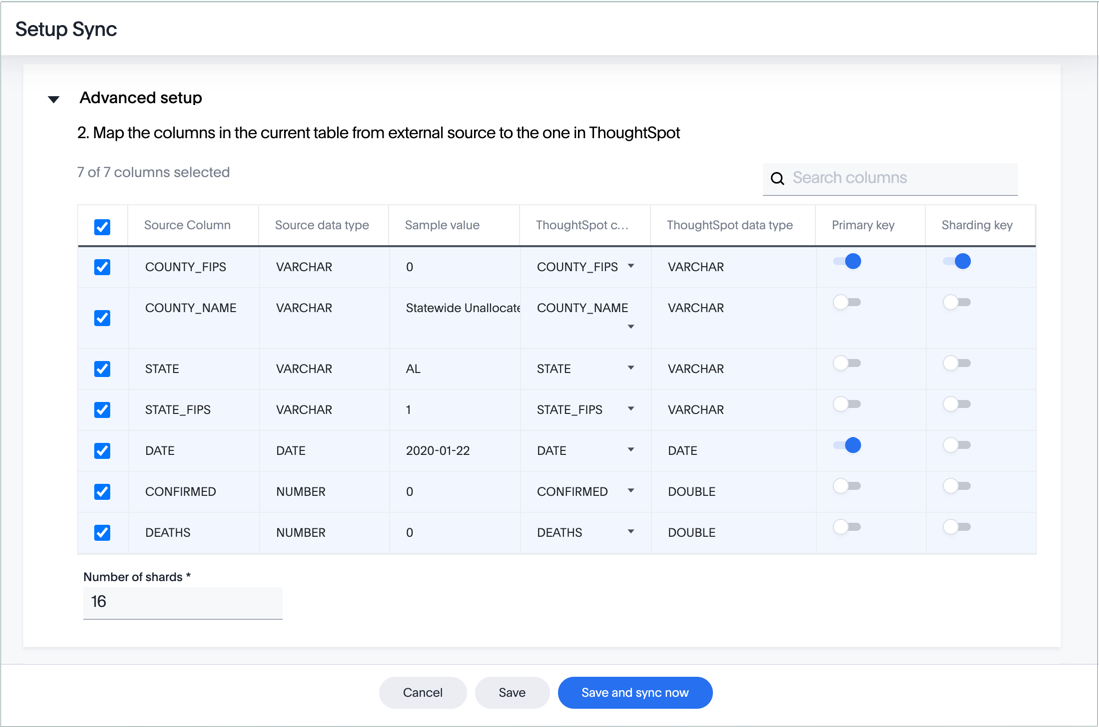
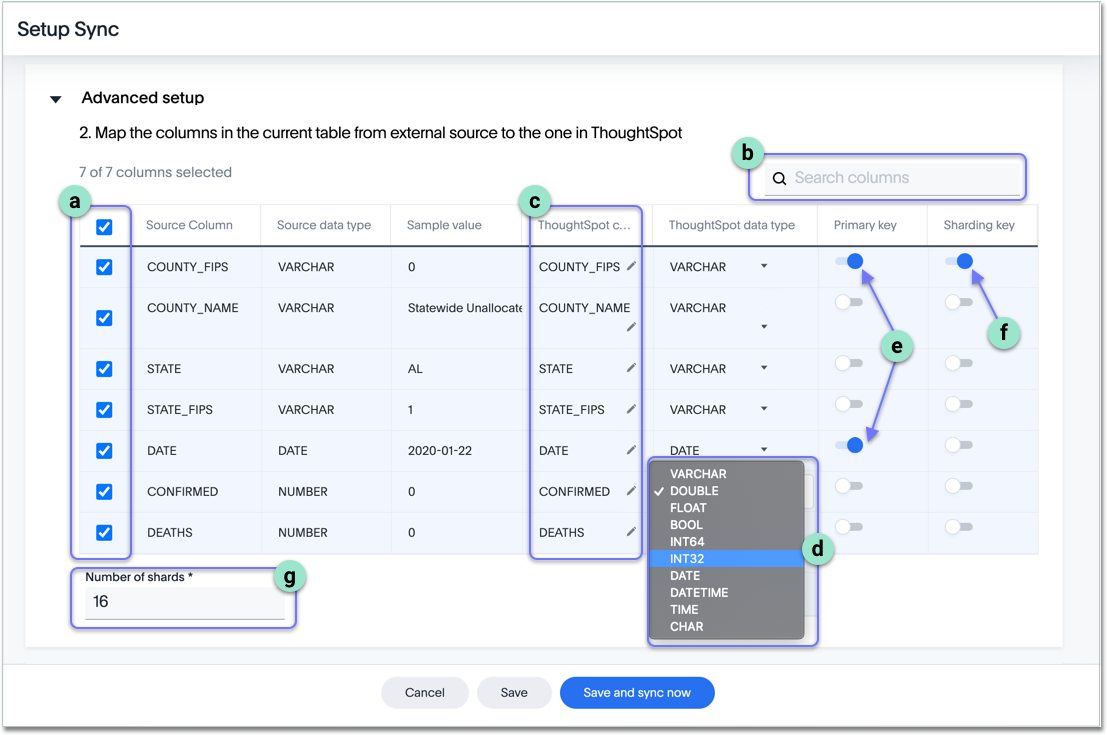
SCAL-62975 correct imagee for column mapping, uodate text

diff --git a/_includes/content/dataflow/map-columns.md b/_includes/content/dataflow/map-columns.md
@@ -1,4 +1,4 @@
-To map the tables and columns between the external tables and ThoughtSpot's internal database, follow these steps:
+To map the columns of the external tables to columns in ThoughtSpot's internal tables, follow these steps:
 
 1. Open the **Advanced setup** interface by clicking the toggle to open.
 
@@ -6,32 +6,18 @@ To map the tables and columns between the external tables and ThoughtSpot's inte
 
 2. Choose the **Map tables and columns** tab.
 
-3. Notice that the external database and table already appear, under **External data source**.
+3. Scroll down, to **Map the columns...** section.
 
-4. Specify the following information for internal ThoughtSpot storage:
+4. Specify the following information for columns:
 
-   ![Map tables and columns]({{ site.baseurl }}/images/dataflow-map-tables-columns.png "Map tables and columns")
+   ![Map columns]({{ site.baseurl }}/images/dataflow-map-columns.png "Map columns")
 
-   <dl id="ts-target">
-     <dlentry id="ts-target-database">
-    <dt>ThoughtSpot database</dt>
-    <dd>Select an existing ThoughtSpot database from the drop-down menu.
-      <br/>Mandatory field.</dd></dlentry>
-     <dlentry id="ts-target-schema">
-       <dt>ThoughtSpot schema</dt>
-       <dd>Select an existing ThoughtSpot schema from the drop-down menu.
-      <br/>Mandatory fields.</dd></dlentry>
-     <dlentry id="ts-target-new-existing">
-    <dt>New or Existing table</dt>
-    <dd>Mandatory field.<br/>
-      <dl>
-        <dlentry>
-          <dt>Create a new table</dt>
-          <dd>Choose this option when you want to load data into a new table.
-          <br/>Specify the table name. When you <strong>Save</strong> or <strong>Save and sync</strong>, DataFlow automatically creates a new table inside ThoughtSpot.</dd></dlentry>
-        <dlentry><dt>Choose existing table</dt><dd>Choose this option to load data into a table that already exists inside ThoughtSpot. <br/>Select the table name from the drop-down menu.</dd></dlentry></dl>
-      </dd></dlentry>
-     <dlentry id="ts-target-table-name">
-        <dt>ThoughtSpot table</dt>
-        <dd>The name of the target table for data sync, inside ThoughtSpot.
-        <br/>Mandatory field.</dd></dlentry></dl>
+   1. Select (or deselect) **columns** for syncing into ThoughtSpot.<br/>By default, all columns are selected.
+   2. **Search** for columns by name; this is very useful for very wide tables.
+   3. **Rename** columns in the ThoughtSpot table, for easier search.
+   4. **Change the data type** of the column inside the ThoughtSpot table.<br/>For example, if you know you have integer data, change the default **DOUBLE** datatype to **INT32**.
+   5. Set **Primary keys** of the table by toggling the selector to the 'on' position.<br/>Note that several columns may be primary keys.
+   6. Set the **Sharding keys** of the table by toggling the selector to the 'on' position.<br/>Note that sharding key columns must be primary key columns.
+   7. Specify the **Number of shards** in the table.
+
+5. Save your work by clicking **Save**.<br/>Alternatively, click **Save and sync now** to save your work and sync data at the same time.
